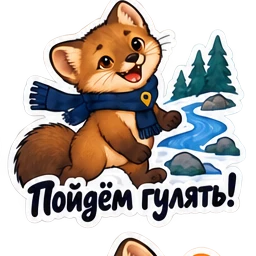
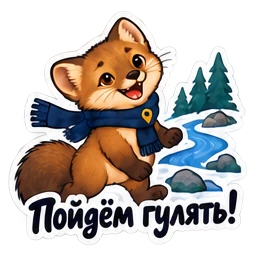
Fit every sable sticker to its actual artwork bounds and refresh cached images

diff --git a/host-public/wall/expressions.js b/host-public/wall/expressions.js
@@ -1,6 +1,6 @@
 // Own artwork, shared by the public wall and React previews. No user-supplied URLs.
 const captions=['Привет!','Кофе рядом?','Вот это мороз!','Спасибо!','Класс!','Пока!','Обнимаю!','Ахаха!','Спокойной ночи','Доброе утро!','Красота рядом','Пойдём гулять!','Жду автобус','Ура!','Помогу!','Как дела?','Ого!','Извини','Договорились!','Я рядом','Чай будешь?','Дома лучше','За покупками','Открывай город!'];
-export const WALL_STICKERS=Object.freeze(captions.map((label,index)=>Object.freeze({id:`sable-${String(index+1).padStart(2,'0')}`,label,src:`/wall/stickers/sable-${String(index+1).padStart(2,'0')}.webp`})));
+export const WALL_STICKERS=Object.freeze(captions.map((label,index)=>Object.freeze({id:`sable-${String(index+1).padStart(2,'0')}`,label,src:`/wall/stickers/sable-${String(index+1).padStart(2,'0')}.webp?v=20261026b`})));
 export const EMOJI_GROUPS=Object.freeze([
  ['Улыбки','😀 😃 😄 😁 😆 😅 😂 🤣 😊 🙂 🙃 😉 😍 🥰 😘 😎 🤩 🥳 😋 😛 😜 🤪 🤗 🤭 🤫 🤔 😐 😑 🙄 😏 😔 😞 😢 😭 😤 😡 🤯 😳 🥺 😱 😴 🤤 🤒 🤕 🥶 🥵 🤠 🫠 🫶'],
  ['Жесты и чувства','👍 👎 👏 🙌 🤝 👋 ✌ 🤞 💪 🙏 🫂 ❤ 🧡 💛 💚 💙 💜 🖤 🤍 🤎 💔 ❤🔥 💕 💞 💓 💖 💘 💝 💯 ✅ ❌ ❗ ❓ 💬 💭 🎉 🎊 ✨ 🔥'],

diff --git a/host-public/wall/index.html b/host-public/wall/index.html
@@ -14,4 +14,4 @@
 <aside class="sidebar"><div class="asidecard"><div class="aside-title">Что здесь можно?</div><p>Задать вопрос, предложить идею, найти соседей или поделиться новостью.</p><div class="aside-points"><span>💬 Обсуждения</span><span>📌 Важные записи</span><span>🤝 Город рядом</span></div></div><div class="asidecard"><div class="aside-title">Уважайте друг друга</div><p>Без спама, оскорблений и публикации чужих личных данных. Городская команда может скрывать нарушающие правила сообщения.</p></div></aside></div>
 </main>
 <footer><div class="layout foot-inner"><span><strong>РЯДОМ</strong> · городское сообщество</span><div><a href="/#/home">Главная</a><a href="/#/privacy">Конфиденциальность</a><a href="/#/terms">Правила</a></div></div></footer>
-<script type="module" src="./app.js?v=20261026stickers1"></script><script type="module" src="/notifications/widget.js?v=20261018d"></script></body></html>
+<script type="module" src="./app.js?v=20261026stickers2"></script><script type="module" src="/notifications/widget.js?v=20261018d"></script></body></html>

diff --git a/host-public/wall/app.js b/host-public/wall/app.js
@@ -1,4 +1,4 @@
-import {attachExpressionPicker,renderWallBody} from './expressions.js?v=20261026stickers1';
+import {attachExpressionPicker,renderWallBody} from './expressions.js?v=20261026stickers2';
 import {verifyHuman} from '/security/antispam.js?v=20261022spam2';
 import {c as createClient} from './supabase-client.js';
 import {rejectWallPost,loadReviewReasons,saveWallDraft} from './moderation.js?v=20261020a';

diff --git a/host-public/wall/stickers/README.md b/host-public/wall/stickers/README.md
@@ -2,8 +2,9 @@
 
 24 собственные иллюстрации по одобренному владельцем образцу: золотистый соболь,
 тёмно-синий шарф, золотой значок геопозиции. Созданы встроенным генератором
-изображений 26 октября 2026 года. Общий лист 4×6 разделён на 24 изображения
-256×256 WebP с сохранением альфа-канала. Подписи и порядок — в expressions.js.
+изображений 26 октября 2026 года. Общий лист 4×6 разделён по фактическим промежуткам между рисунками.
+Каждый стикер пропорционально вписан в 256×256 WebP с прозрачными полями
+и сохранением альфа-канала. Подписи и порядок — в expressions.js.
 
 Сюжеты: приветствие, кофе, мороз, благодарность, одобрение, прощание, объятия,
 смех, ночь, утро, деревянный дом, прогулка у реки, автобус, радость, помощь,
